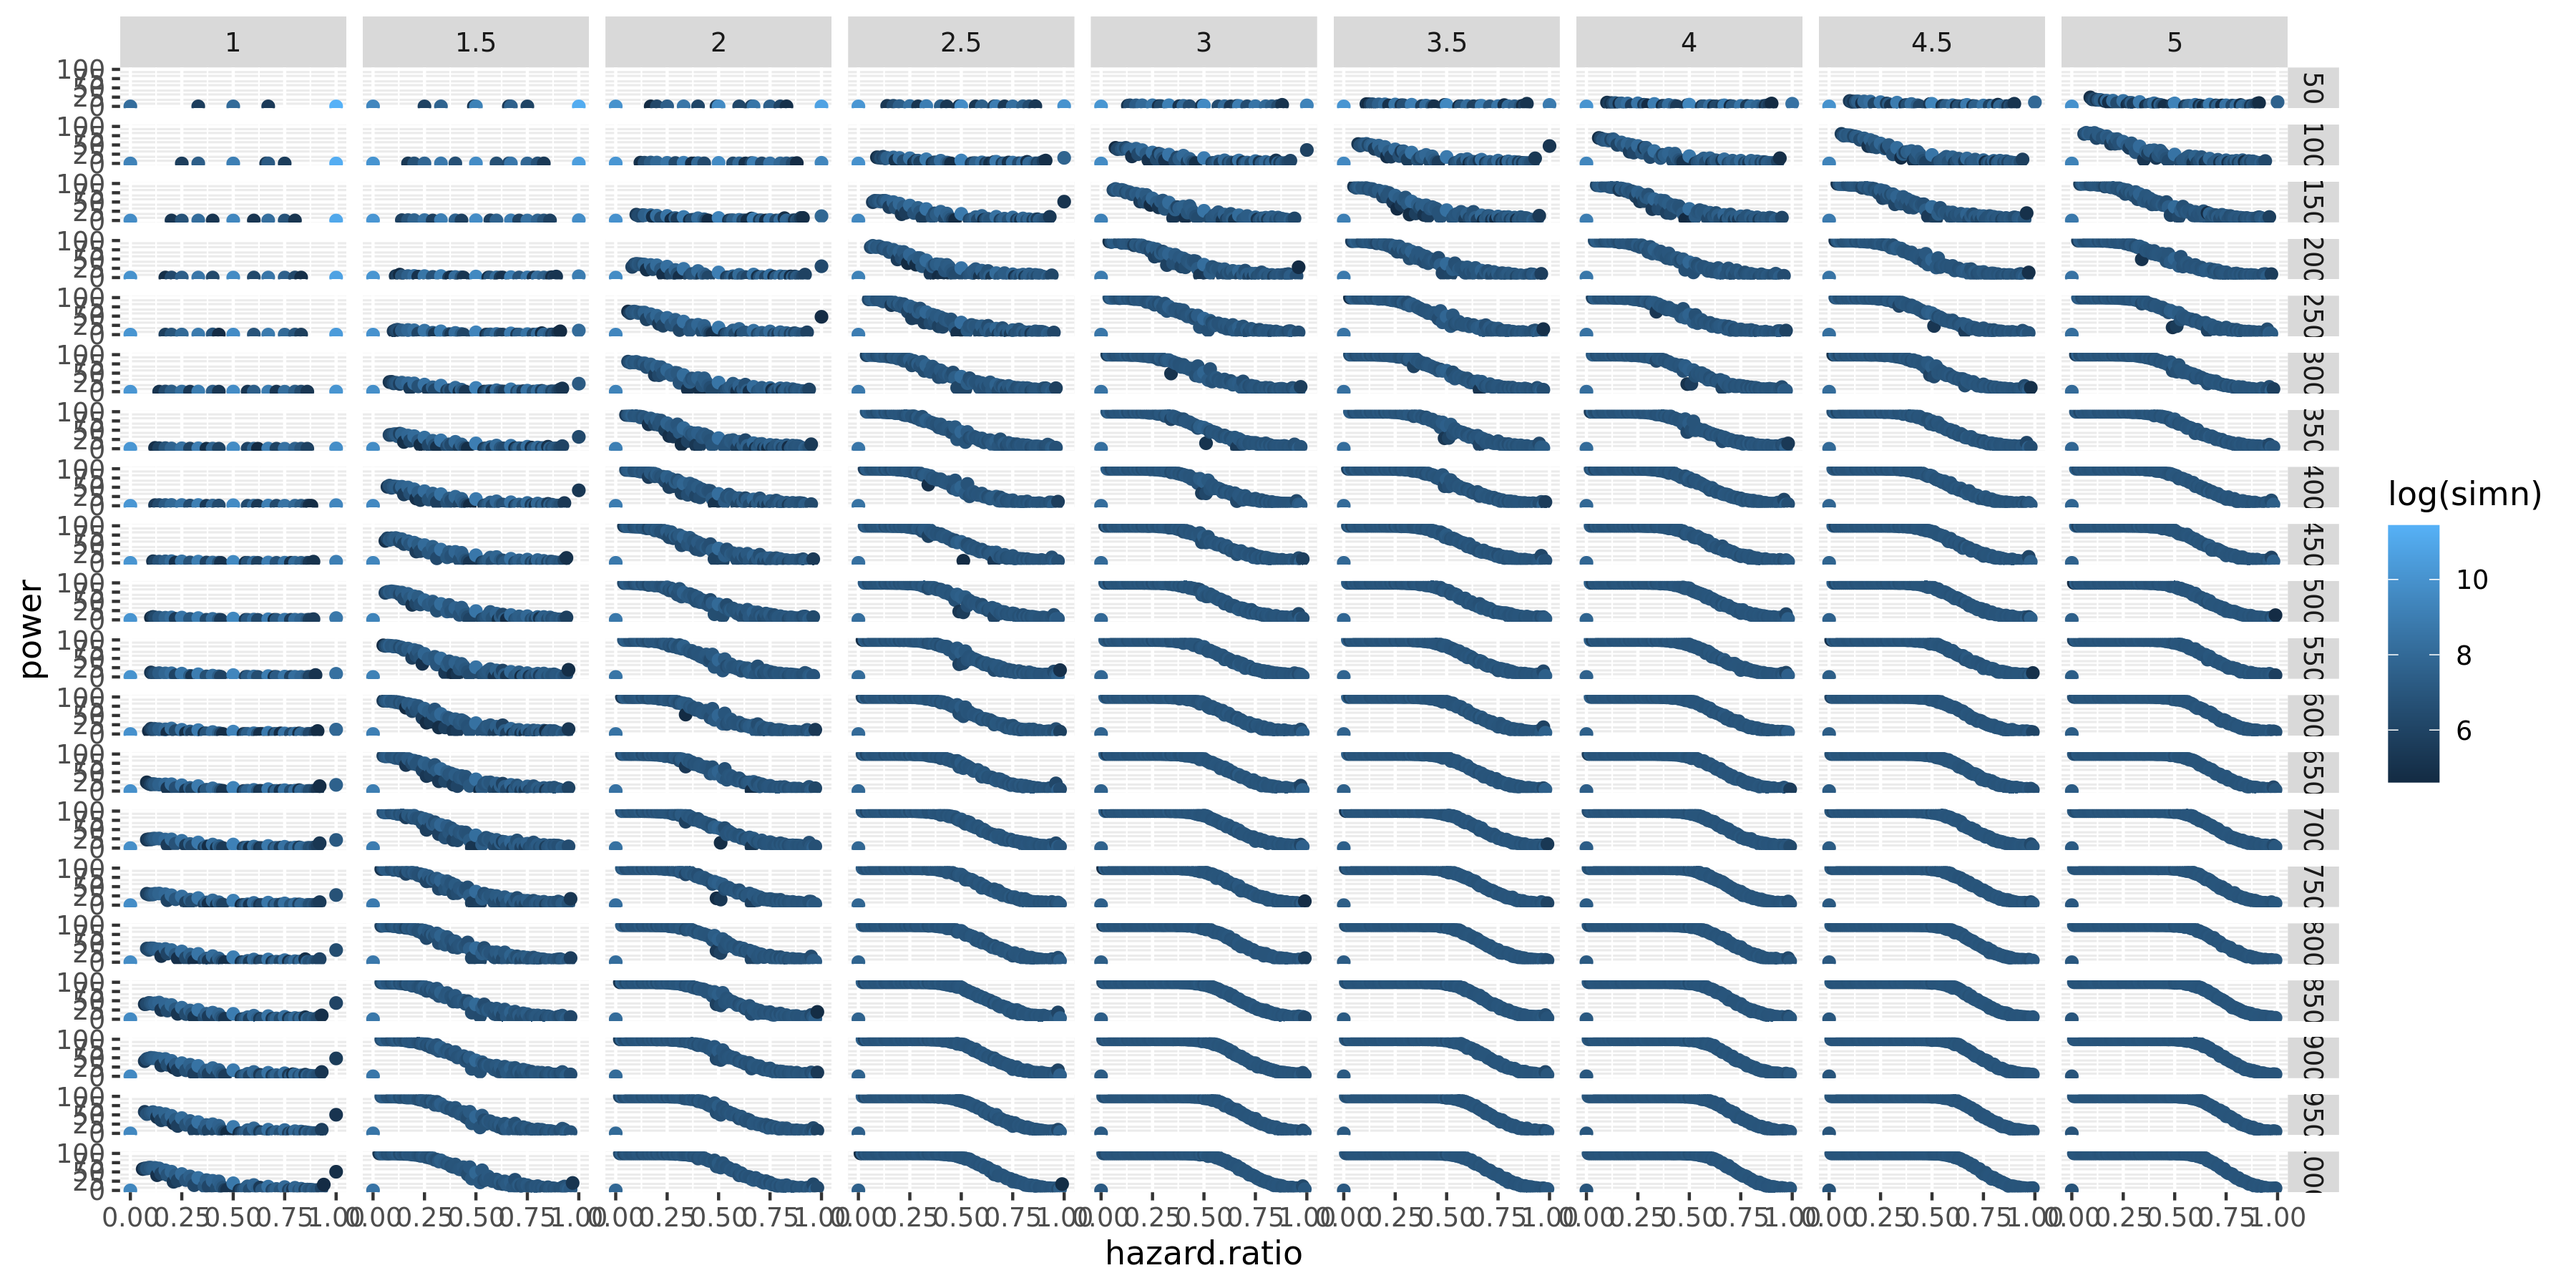
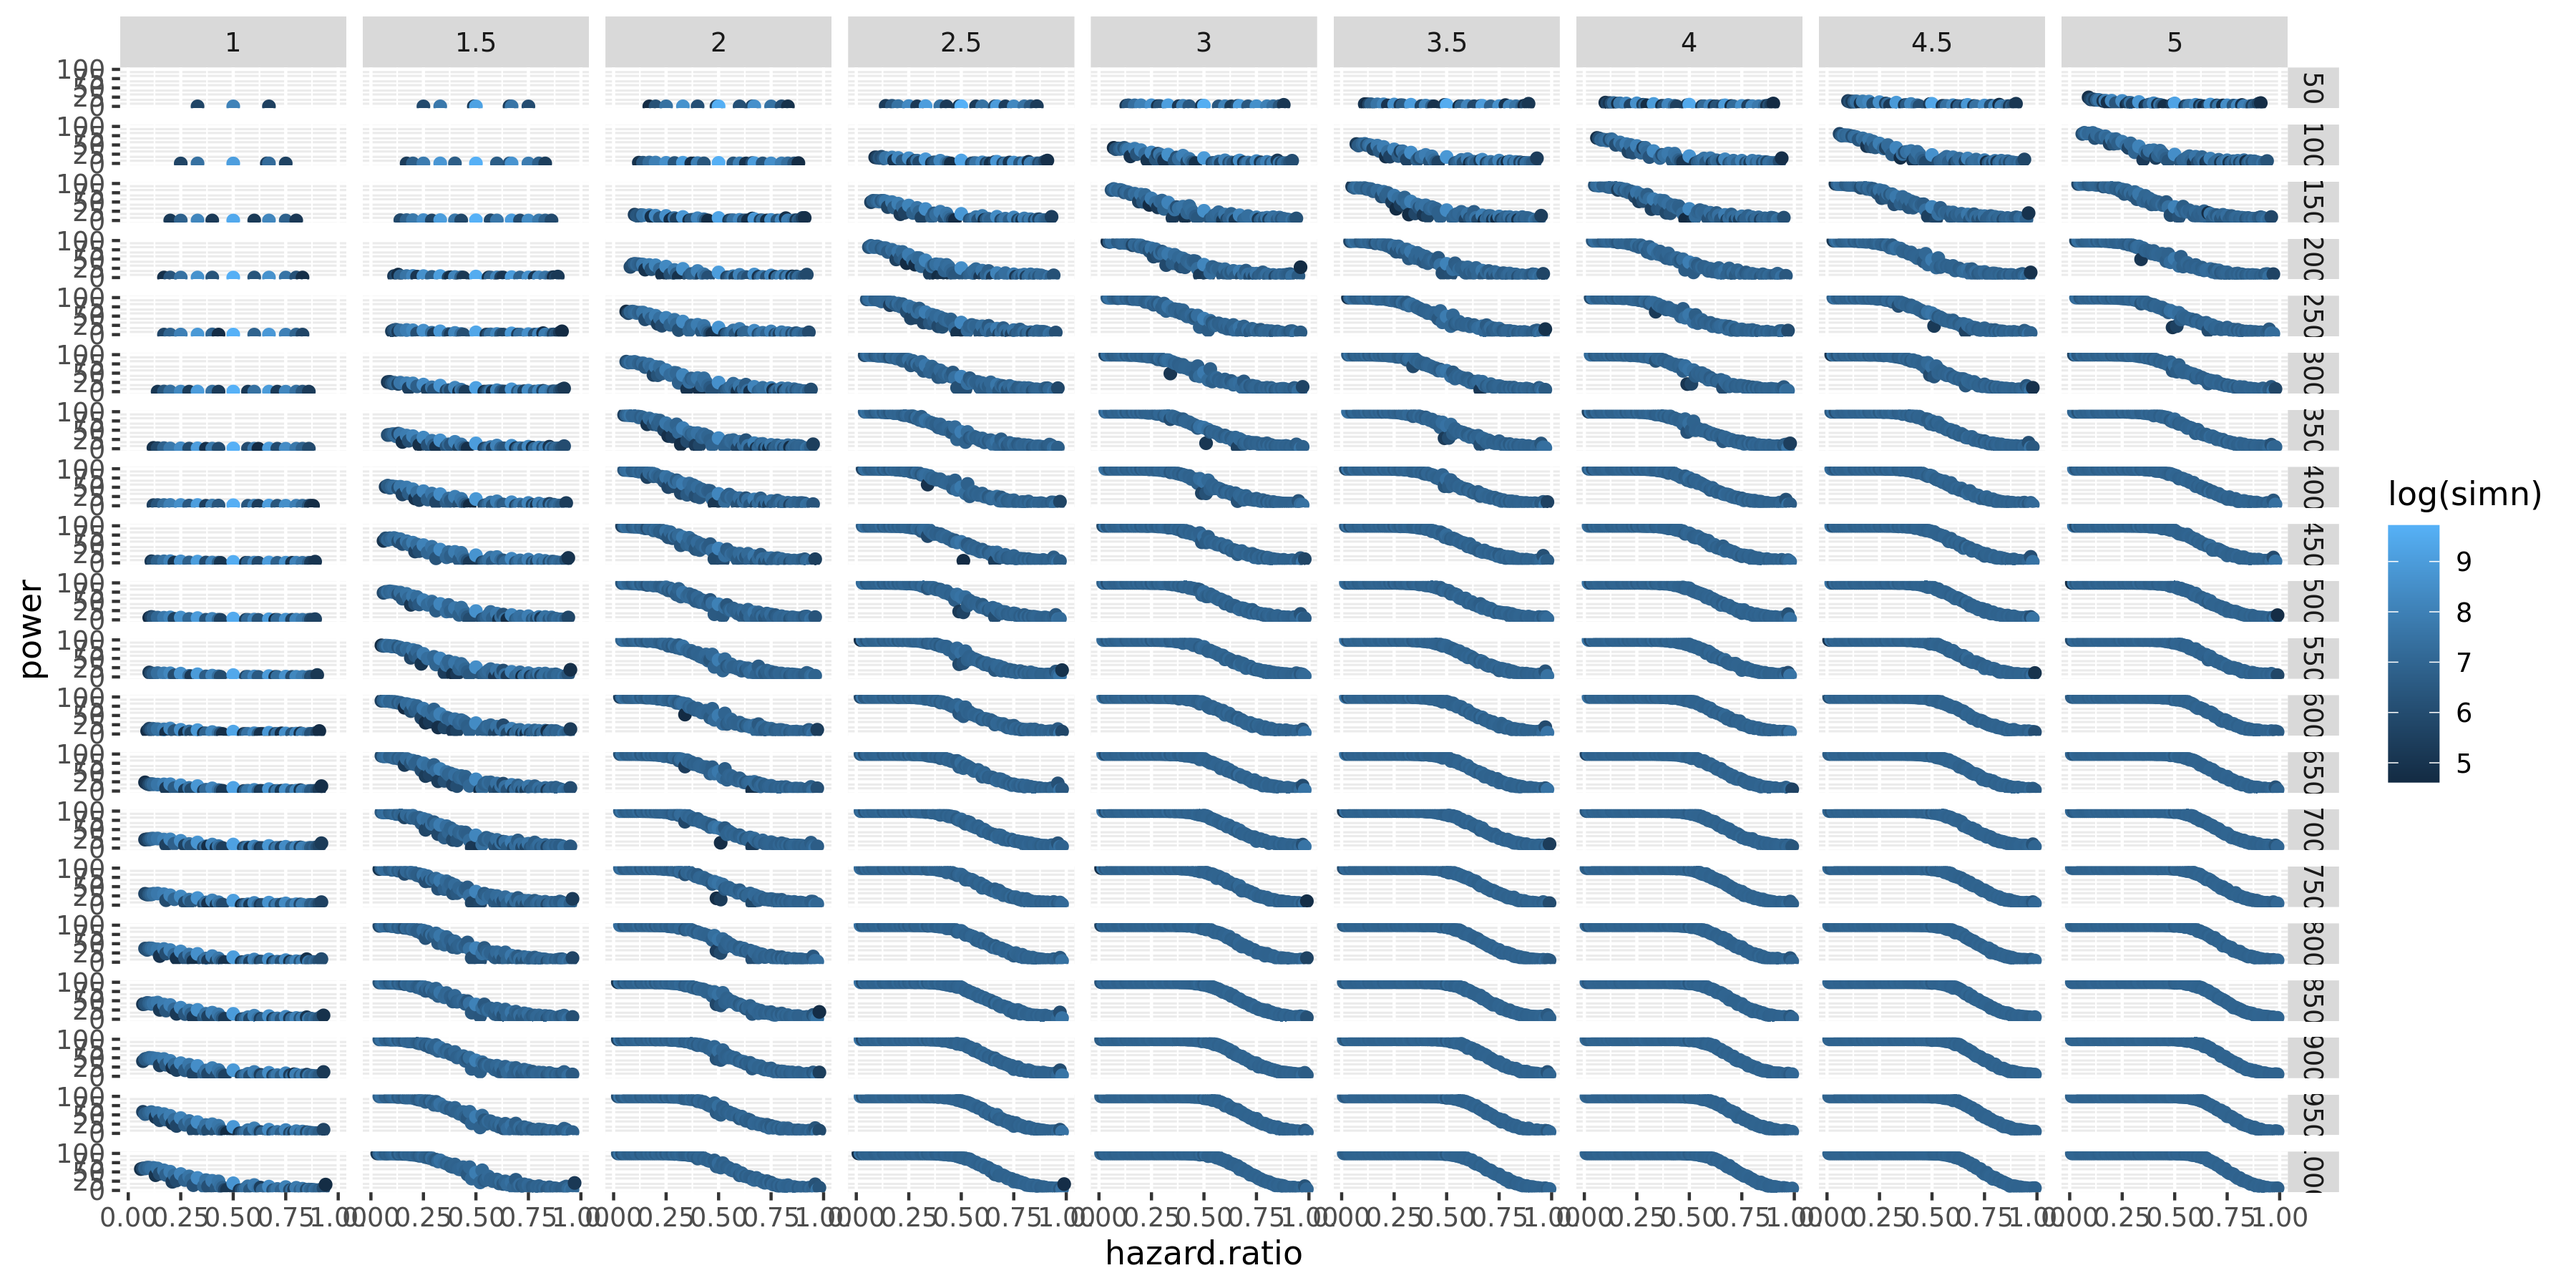
udpate

diff --git a/samplesize/2-postprocess.py b/samplesize/2-postprocess.py
@@ -11,6 +11,8 @@ with open("simultation.csv") as fin:
         (ss, hr, yr, p) = arr
         p = float(p)
         hr = round(float(arr[1]),2)
+        if hr == 0.0 or hr == 1.0:
+            continue
         key = ",".join(map(str, (ss,yr,hr)))
         if not key in buckets:
             buckets[key] = [0, 0]
